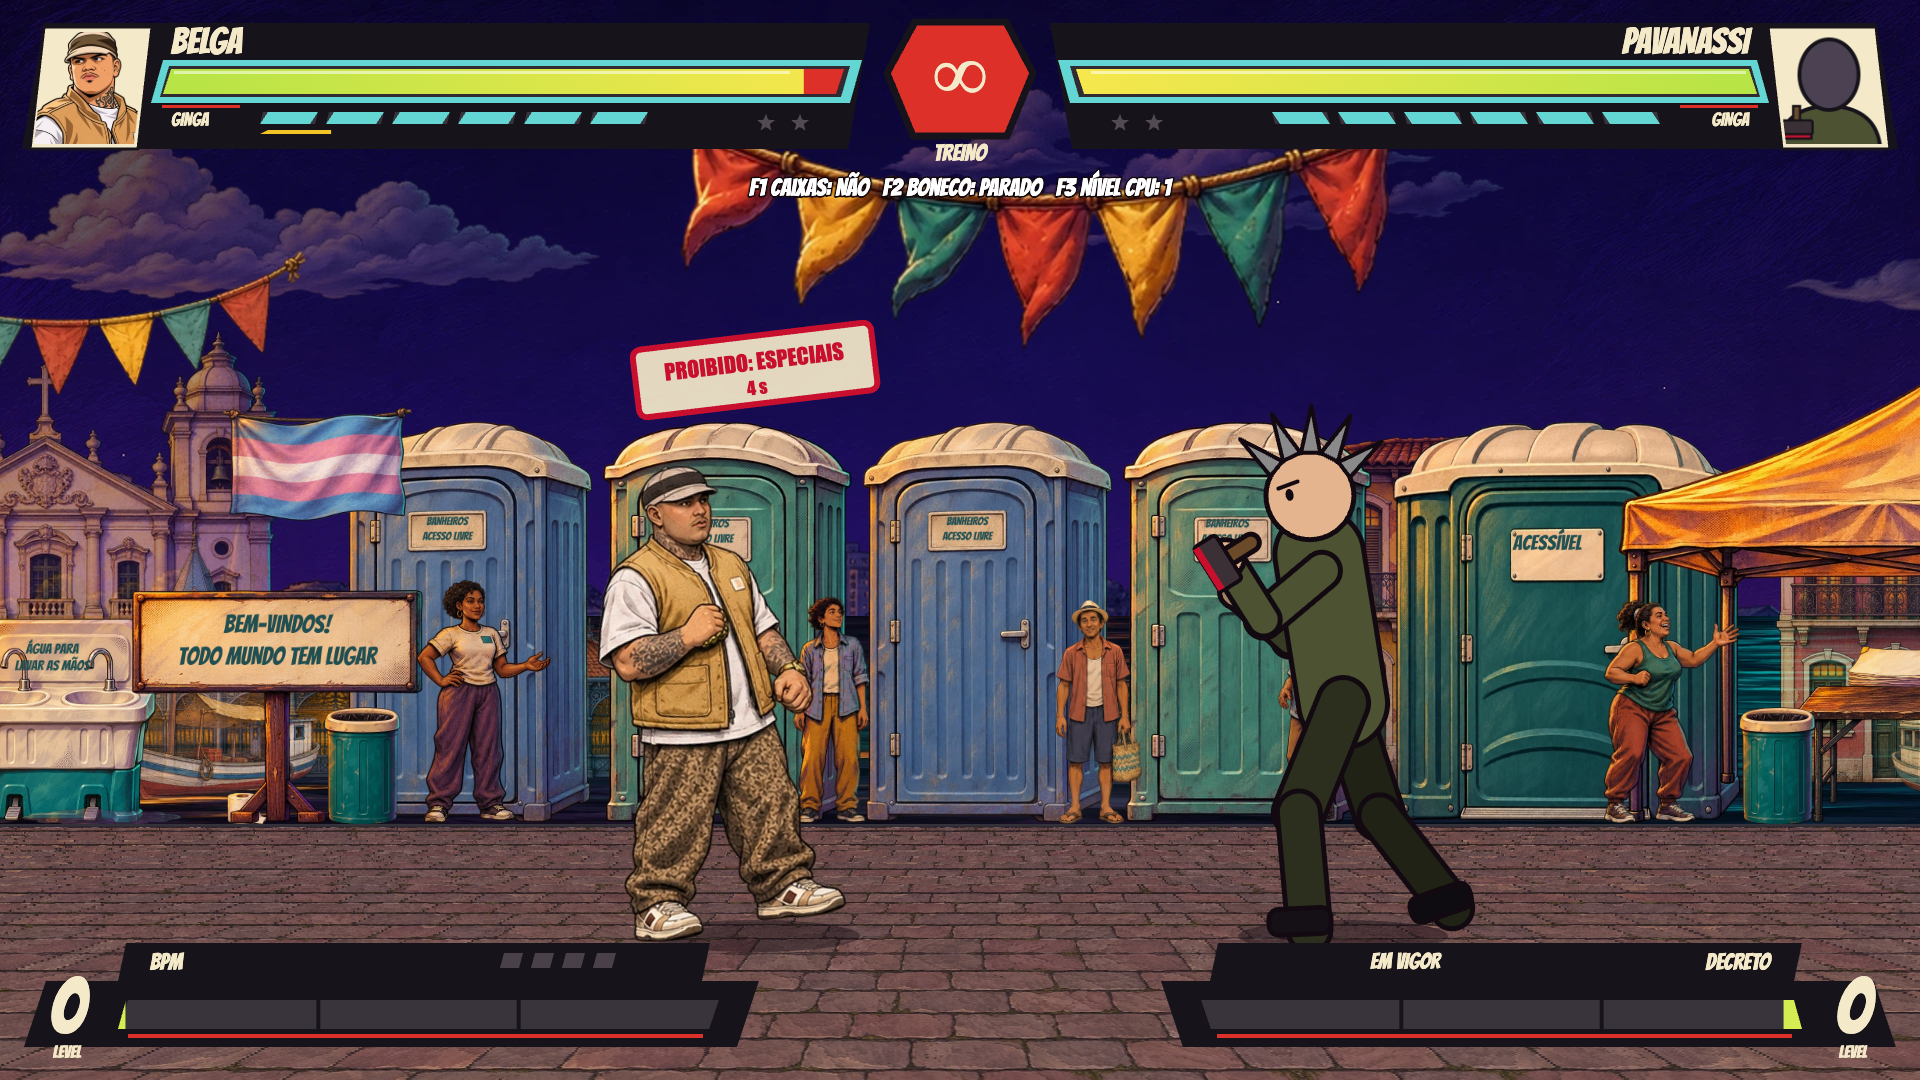
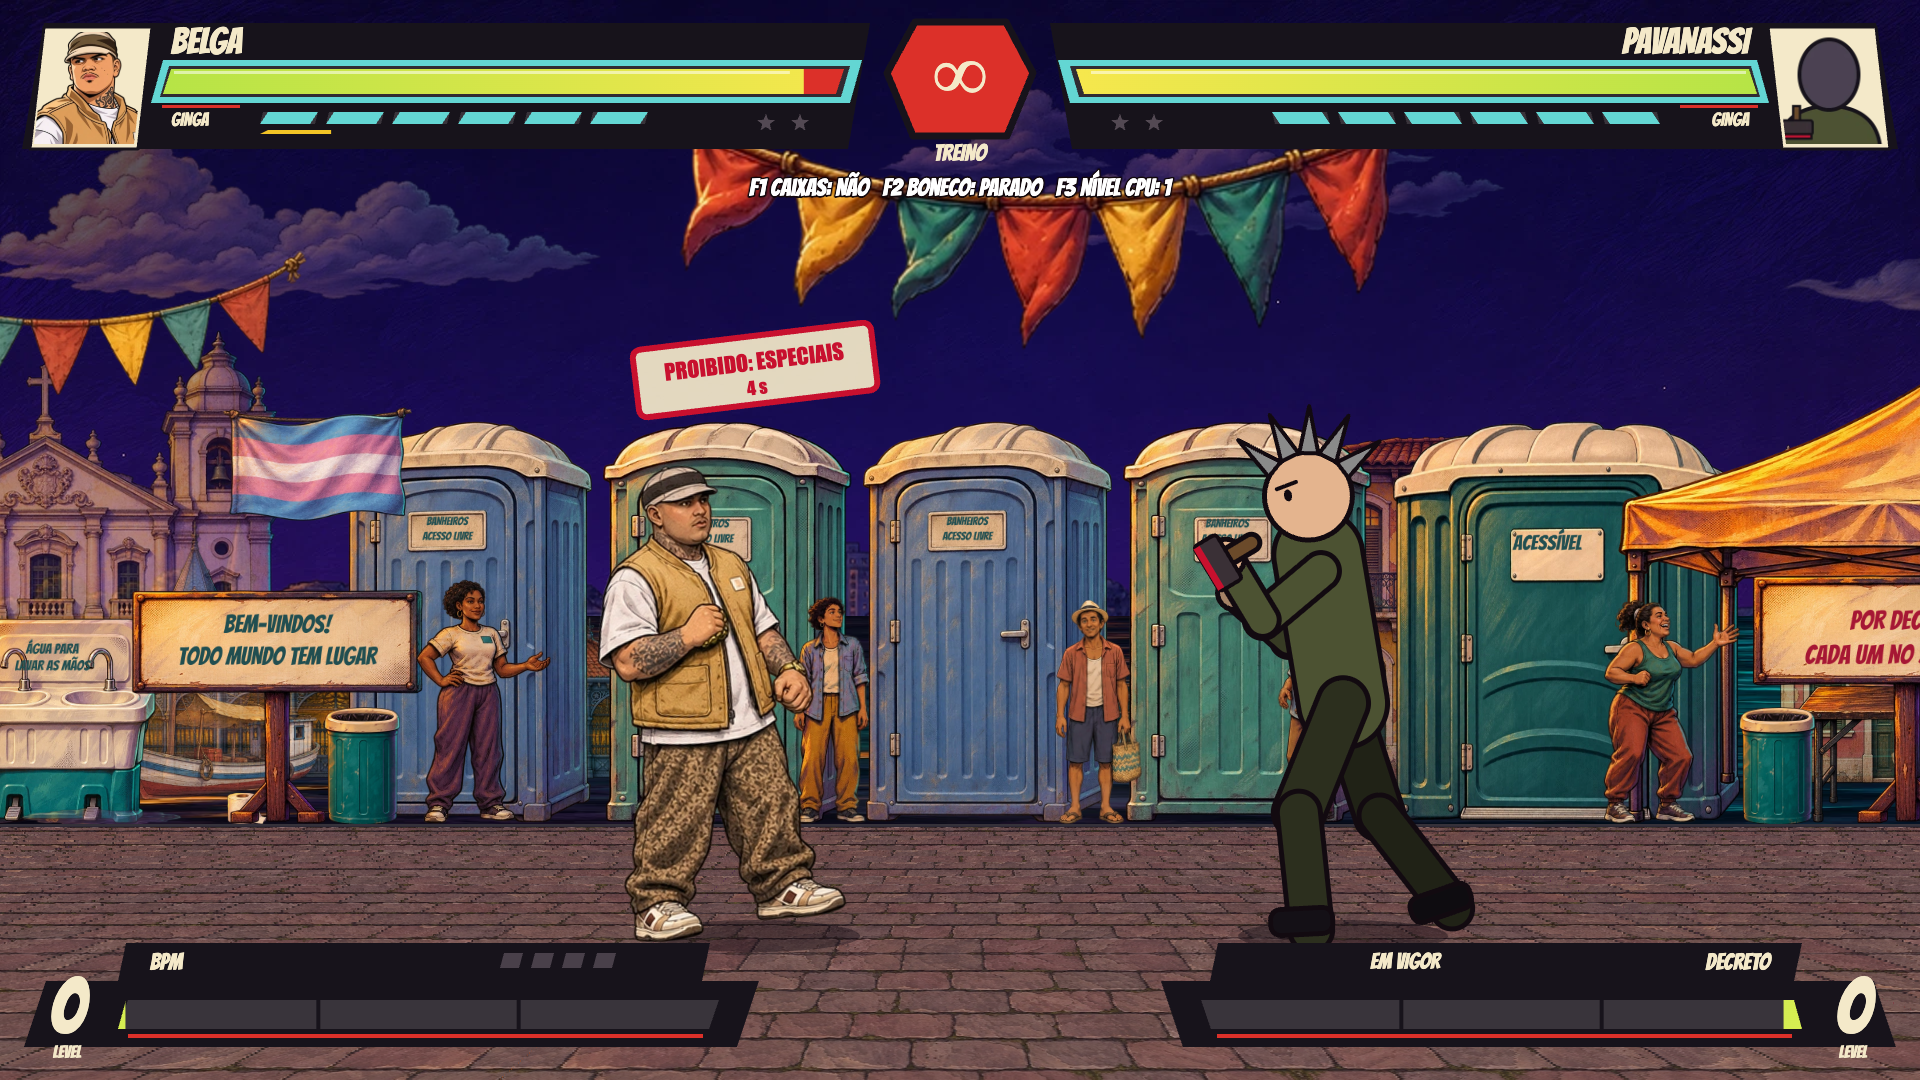
Valida banheiros com a integração atual do Chupetinha

diff --git a/production/qa/banheiros-cenario.html b/production/qa/banheiros-cenario.html
@@ -353,6 +353,30 @@
     };
   }
 
+  // src/data/chupetinha-art.js
+  var CHUPETINHA_SPRITES = {
+    "spriteProfile": "six-frame",
+    "spriteScale": 0.76,
+    "spriteRecovery": true,
+    "spriteTurboMoves": [
+      "5S",
+      "6S",
+      "2S"
+    ],
+    "spriteStripScale": {
+      "chupetinha": {
+        "golpe-5M": 1.037273883105276,
+        "golpe-5H": 1.05112098591372,
+        "golpe-2M": 1.0486033308576392,
+        "golpe-6S": 1.169450773549516,
+        "golpe-6S-turbo": 1.1681919460214756,
+        "golpe-2S": 1.1065093971474969,
+        "golpe-2S-turbo": 1.120356499955941,
+        "golpe-SA3": 1.0989564319792549
+      }
+    }
+  };
+
   // src/data/characters/chupetinha.js
   var LIVE = {
     heal: 0.25,
@@ -364,6 +388,14 @@
     suck: SYS.GINGA.pip
     // Ginga roubada pela Sugada
   };
+  function worldBox(f, box) {
+    const l = f.face > 0 ? f.x + box.x : f.x - box.x - box.w;
+    return { l, r: l + box.w, b: f.y + box.y, t: f.y + box.y + box.h };
+  }
+  var overlap = (a, b) => a.l < b.r && a.r > b.l && a.b < b.t && a.t > b.b;
+  function phoneBox(f) {
+    return worldBox(f, { x: -50, y: 440, w: 120, h: 110 });
+  }
   var flail = (o) => mv({ weapon: "whip", ...o });
   var spit = (o = {}) => proj({ kind: "chupeta", x: 90, y: 330, w: 60, h: 50, vx: 15, life: 90, dmg: 550, color: "#ff8fc0", ...o, extra: { art: "chupeta", ...o.extra } });
   var moves = {
@@ -457,10 +489,135 @@
       tags: ["super", "big"]
     })
   };
+  function goLive(st, f) {
+    if (f.res.live || f.res.offT > 0) return;
+    f.res.live = true;
+    f.res.signal = LIVE.signal;
+    st.events.push({ t: "pop", str: "EST\xC3O ME CENSURANDO!", x: f.x, y: 600, color: "#ff4fa0", size: 46 });
+    st.events.push({ t: "live", side: f.side, on: true, x: f.x });
+  }
+  function dropLive(st, f, why) {
+    f.res.live = false;
+    f.res.signal = 0;
+    f.res.offT = LIVE.offFrames;
+    st.events.push({ t: "pop", str: why === "flash" ? "FLASH! SEM SINAL!" : "SEM SINAL!", x: f.x, y: 620, color: "#9ff5e8", size: 48 });
+    st.events.push({ t: "live", side: f.side, on: false, x: f.x });
+  }
+  function phoneStruck(st, f, o) {
+    const box = phoneBox(f);
+    const seen = f.res.phoneSeen;
+    if (o.state === "attack") {
+      const m = o.move;
+      const id = o.hitDone;
+      for (const h of m.hits) {
+        if (seen.has(id)) break;
+        if (o.sf < h.from || o.sf > h.to) continue;
+        if (m.fx === "flash") {
+          const wb = worldBox(o, h.box);
+          if (overlap({ ...wb, b: 0, t: 9999 }, box)) return seen.add(id), "flash";
+        }
+        if (overlap(worldBox(o, h.box), box)) return seen.add(id), "hit";
+      }
+    }
+    for (const e of st.ents) {
+      if (e.owner === f.side || !e.hit || e.delay > 0 || seen.has(`e${e.id}`)) continue;
+      if (overlap({ l: e.x - e.w / 2, r: e.x + e.w / 2, b: e.y, t: e.y + e.h }, box)) return seen.add(`e${e.id}`), "hit";
+    }
+    return null;
+  }
+  var chupetinha_default = {
+    id: "chupetinha",
+    ...CHUPETINHA_SPRITES,
+    name: "CHUPETINHA",
+    style: "Chefe \u2014 m\xE9dia dist\xE2ncia",
+    mechName: "EST\xC3O ME CENSURANDO!",
+    mechDesc: "Ao apanhar, liga a live: 25% do dano volta como vida. Acerte o celular sobre a cabe\xE7a dele para derrubar o sinal.",
+    colors: { skin: "#e8b894", top: "#2f5d9e", top2: "#f4f0ea", bottom: "#24304a", accent: "#ff8fc0", hair: "#3a2a1a", shoe: "#141016" },
+    look: { hair: "curly", weapon: "chupeta", sleeves: "long" },
+    walkF: 5.6,
+    walkB: 4.6,
+    jumpScale: 0.95,
+    hpScale: 1.15,
+    boss: true,
+    place: "BEL\xC9M \u2014 FRENTE DO PALCO",
+    moves,
+    mech: {
+      init(f) {
+        f.res = { live: false, signal: 0, offT: 0, lastHp: f.hp, healShown: 0, phoneSeen: /* @__PURE__ */ new Set() };
+      },
+      tick(st, f, o) {
+        const r = f.res;
+        if (r.phoneSeen.size > 40) r.phoneSeen = /* @__PURE__ */ new Set();
+        if (r.healShown > 0) r.healShown--;
+        if (r.offT > 0 && --r.offT === 0) st.events.push({ t: "pop", str: "SINAL VOLTOU", x: f.x, y: 600, color: "#d8d0dc", size: 34 });
+        const lost = r.lastHp - f.hp;
+        if (lost > 0 && f.hp > 0) {
+          if (r.live) {
+            const heal = Math.max(1, Math.round(lost * LIVE.heal));
+            f.hp = Math.min(f.maxHp, f.hp + heal);
+            if (!r.healShown) {
+              st.events.push({ t: "pop", str: "+ENGAJAMENTO", x: f.x, y: 560, color: "#ff4fa0", size: 36 });
+              r.healShown = 45;
+            }
+          } else goLive(st, f);
+        }
+        r.lastHp = f.hp;
+        if (r.live && f.hp > 0) {
+          const hit = phoneStruck(st, f, o);
+          if (hit === "flash") dropLive(st, f, "flash");
+          else if (hit) {
+            r.signal--;
+            st.events.push({ t: "pop", str: `SINAL ${r.signal}/${LIVE.signal}`, x: f.x, y: 640, color: "#9ff5e8", size: 34 });
+            if (r.signal <= 0) dropLive(st, f, "hit");
+          }
+        }
+      },
+      onHit(st, f, d, h, src) {
+        if (src.type !== "move" || !src.m.tags.includes("suck") || d.hp <= 0) return;
+        const stolen = Math.min(LIVE.suck, Math.max(0, d.ginga));
+        d.ginga -= LIVE.suck;
+        d.gingaPause = SYS.GINGA.regenPause;
+        if (d.ginga <= 0) {
+          d.ginga = 0;
+          if (!d.burnout) {
+            d.burnout = true;
+            st.events.push({ t: "burnout", side: d.side });
+          }
+        }
+        if (!f.burnout) f.ginga = Math.min(SYS.GINGA.max, f.ginga + stolen);
+        st.events.push({ t: "pop", str: "SUGOU A GINGA!", x: d.x, y: 480, color: "#ff8fc0", size: 40 });
+      },
+      onMoveStart(st, f, m) {
+        if (m.name === "Live Patrocinada") {
+          f.res.offT = 0;
+          f.res.live = false;
+          goLive(st, f);
+        }
+      },
+      hud(f) {
+        const r = f.res;
+        if (r.live) return { label: "AO VIVO", pips: LIVE.signal, value: r.signal, ready: true, readyText: "AO VIVO", color: "#ff4fa0" };
+        if (r.offT > 0) return { label: "AO VIVO", pips: 0, value: 0, text: `SEM SINAL ${Math.ceil(r.offT / 60)}s`, ready: false, color: "#9ff5e8" };
+        return { label: "AO VIVO", pips: 0, value: 0, text: "DESLIGADO", ready: false, color: "#ff4fa0" };
+      },
+      aiPlan(st, f, o, dist, rnd) {
+        if (dist < 240 && rnd() < 0.22) return { key: "6S" };
+        if (dist > 460 && rnd() < 0.18) return { key: "5S" };
+        return null;
+      }
+    },
+    ai: { aggression: 0.55, block: 0.5, antiAir: 0.6, range: "mid" }
+  };
+
+  // src/render/anim.js
+  var FOOT = { x: 0.5, y: 700 / 768 };
+
+  // src/render/chupetinha-art.js
+  var GY = SYS.GROUND_Y;
 
   // src/render/boss-art.js
   var OUT = "#12080c";
-  var GY = SYS.GROUND_Y;
+  var GY2 = SYS.GROUND_Y;
   function drawStamp(c, x, y, s) {
     c.save();
     c.translate(x, y);
